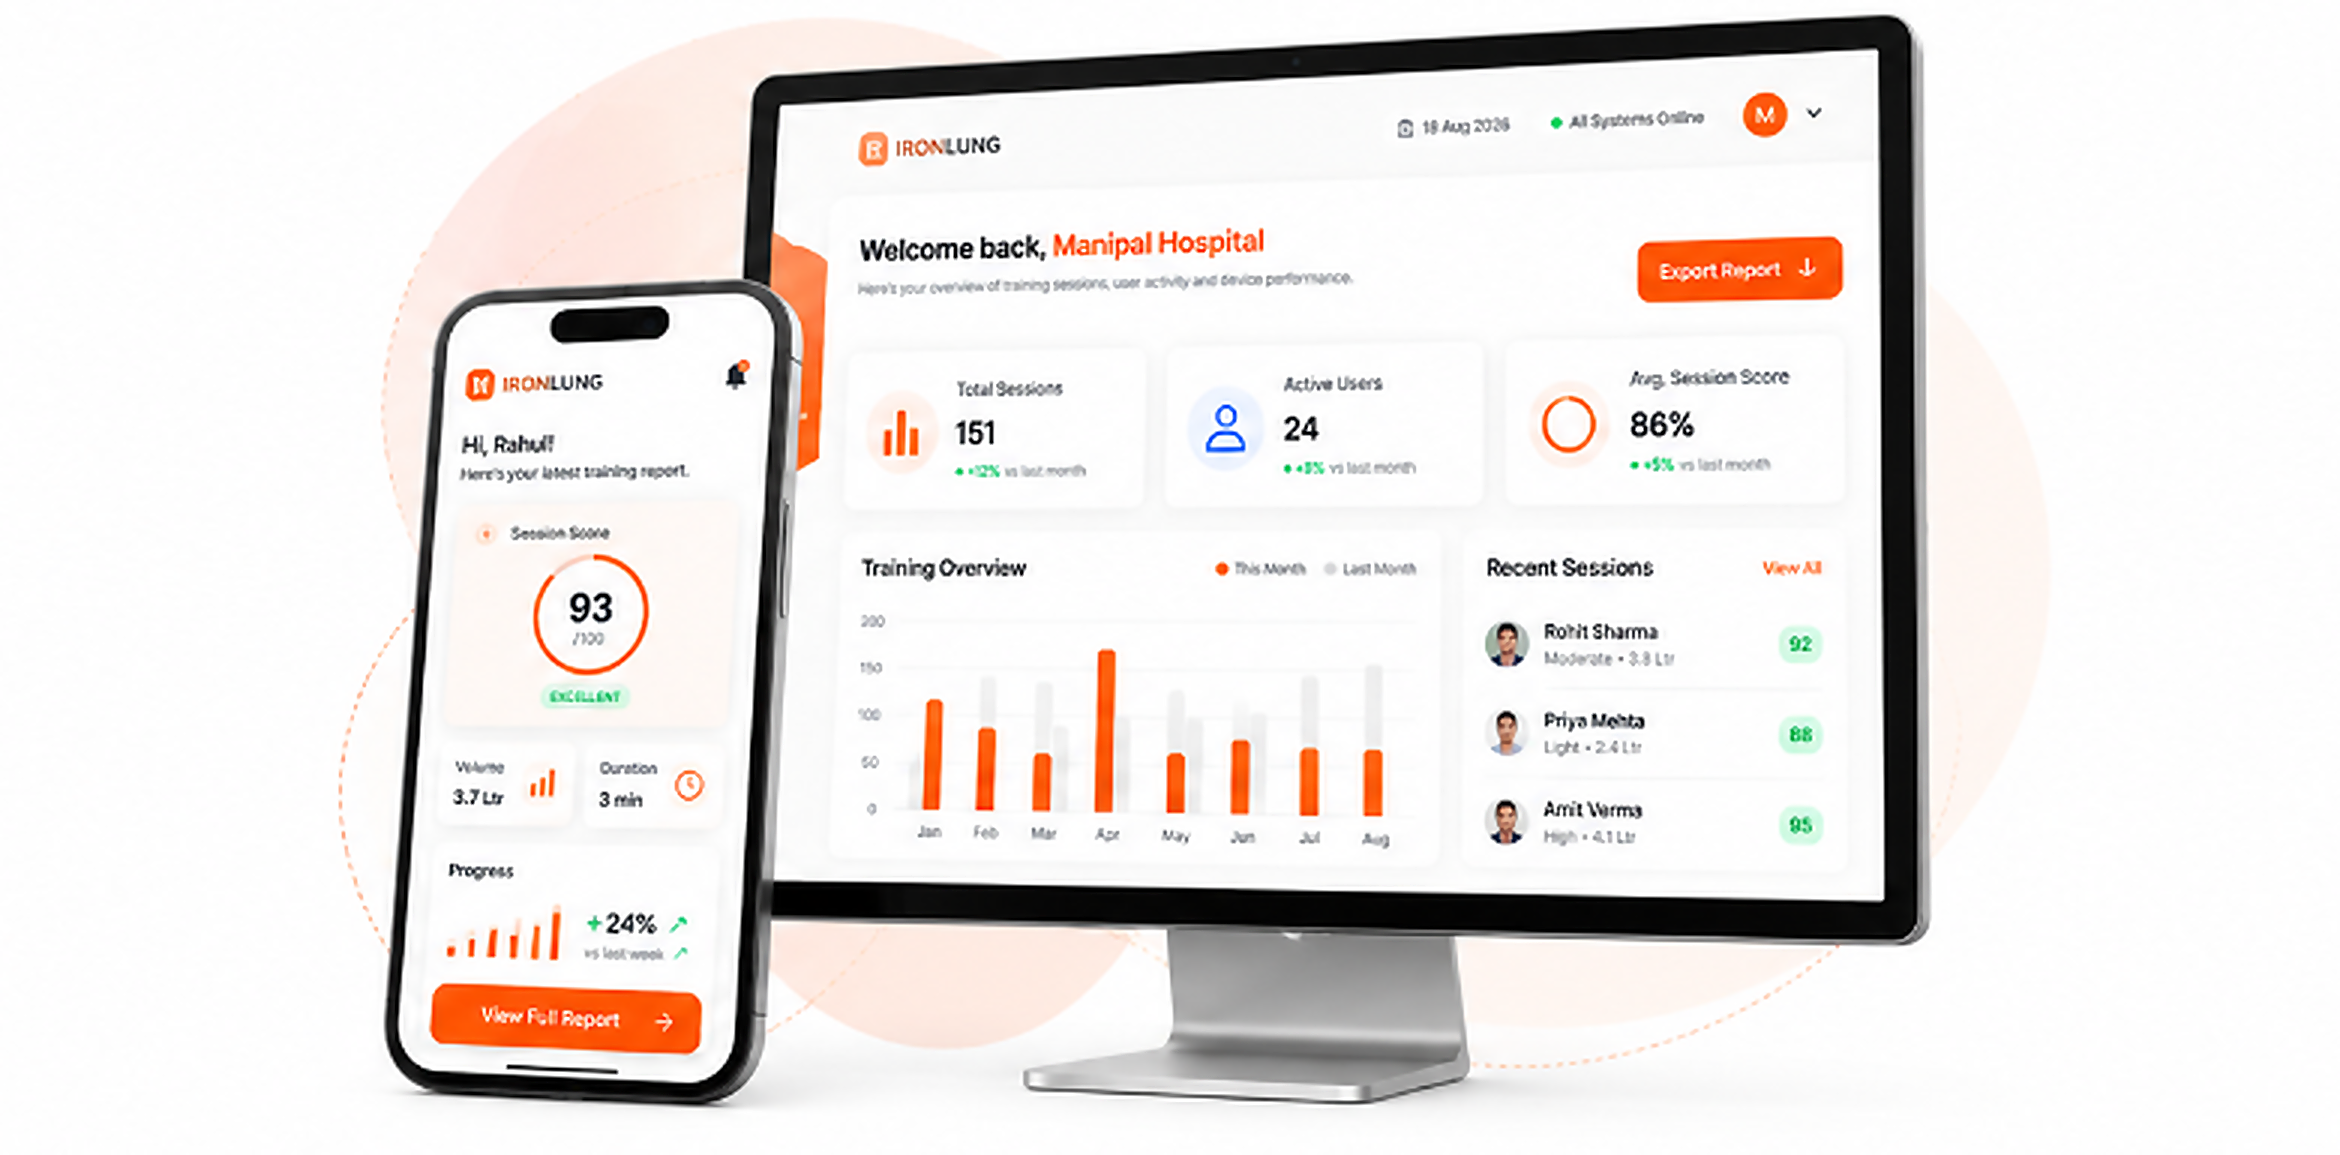
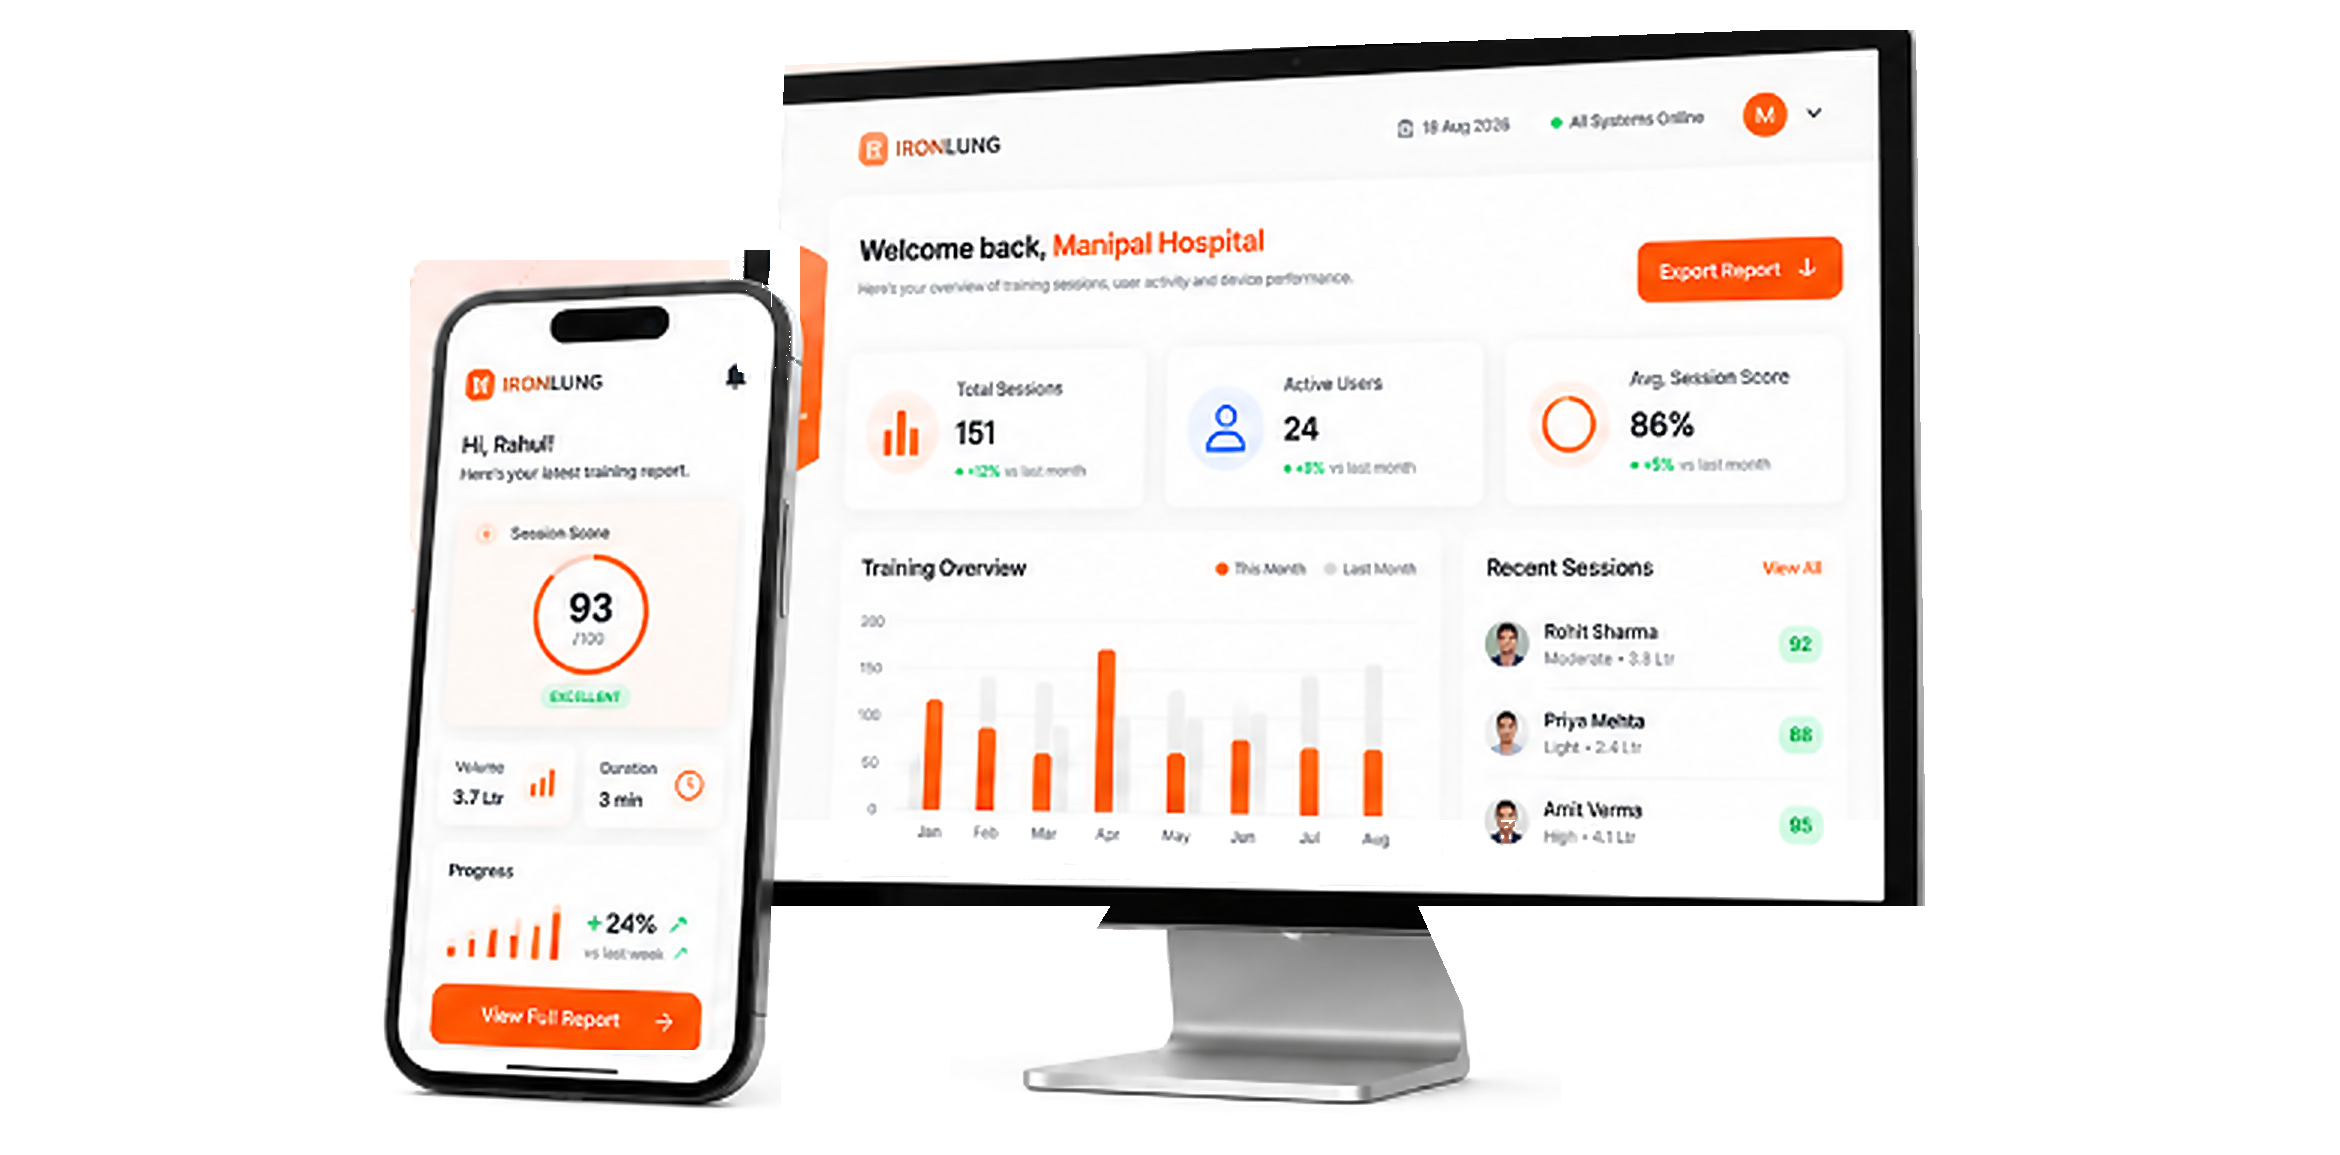
fix(technology): remove square background and drop-shadow behind mobile and desktop mockups

diff --git a/src/components/sections/technology/TechnologyInteractiveAppSection.tsx b/src/components/sections/technology/TechnologyInteractiveAppSection.tsx
@@ -27,7 +27,7 @@ export const TechnologyInteractiveAppSection: React.FC = () => {
         </motion.div>
 
         {/* ===================================================================== */}
-        {/* CENTER COMPOSITION: DESKTOP & MOBILE MOCKUPS WITH AURA GLOW           */}
+        {/* CENTER COMPOSITION: DESKTOP & MOBILE MOCKUPS (CLEAN BACKGROUND)       */}
         {/* ===================================================================== */}
         <motion.div
           initial={{ opacity: 0, y: 32 }}
@@ -36,38 +36,12 @@ export const TechnologyInteractiveAppSection: React.FC = () => {
           transition={{ duration: 0.75, delay: 0.15, ease: [0.22, 1, 0.36, 1] }}
           className="relative w-full max-w-[1080px] mt-10 sm:mt-14 md:mt-16 lg:mt-20 flex items-center justify-center"
         >
-          {/* Subtle warm orange aura background */}
-          <div 
-            className="absolute -inset-4 sm:-inset-8 md:-inset-12 rounded-full pointer-events-none select-none opacity-80"
-            style={{
-              background: "radial-gradient(ellipse 70% 55% at 42% 50%, rgba(255, 106, 26, 0.15) 0%, rgba(255, 140, 50, 0.05) 55%, transparent 75%)",
-            }}
-          />
-
-          {/* Subtle curved dashed accent ring */}
-          <svg
-            className="absolute inset-0 w-full h-full pointer-events-none select-none opacity-30"
-            viewBox="0 0 1000 500"
-            fill="none"
-            xmlns="http://www.w3.org/2000/svg"
-          >
-            <ellipse
-              cx="450"
-              cy="250"
-              rx="420"
-              ry="210"
-              stroke="#FF6A1A"
-              strokeWidth="1.5"
-              strokeDasharray="6 8"
-            />
-          </svg>
-
-          {/* High-Resolution Dual Device Mockup (Desktop Monitor + iPhone) */}
+          {/* High-Resolution Dual Device Mockup (Desktop Monitor + iPhone on seamless transparent background) */}
           <div className="relative z-10 w-full flex items-center justify-center">
             <img
               src="/images/technology/interactive-app-mockup.png"
               alt="IronLung Interactive App for Users and Admins on Desktop and Mobile"
-              className="w-full h-auto max-w-[1000px] object-contain select-none pointer-events-none drop-shadow-[0_16px_36px_rgba(0,0,0,0.06)]"
+              className="w-full h-auto max-w-[1000px] object-contain select-none pointer-events-none"
               loading="lazy"
             />
           </div>
